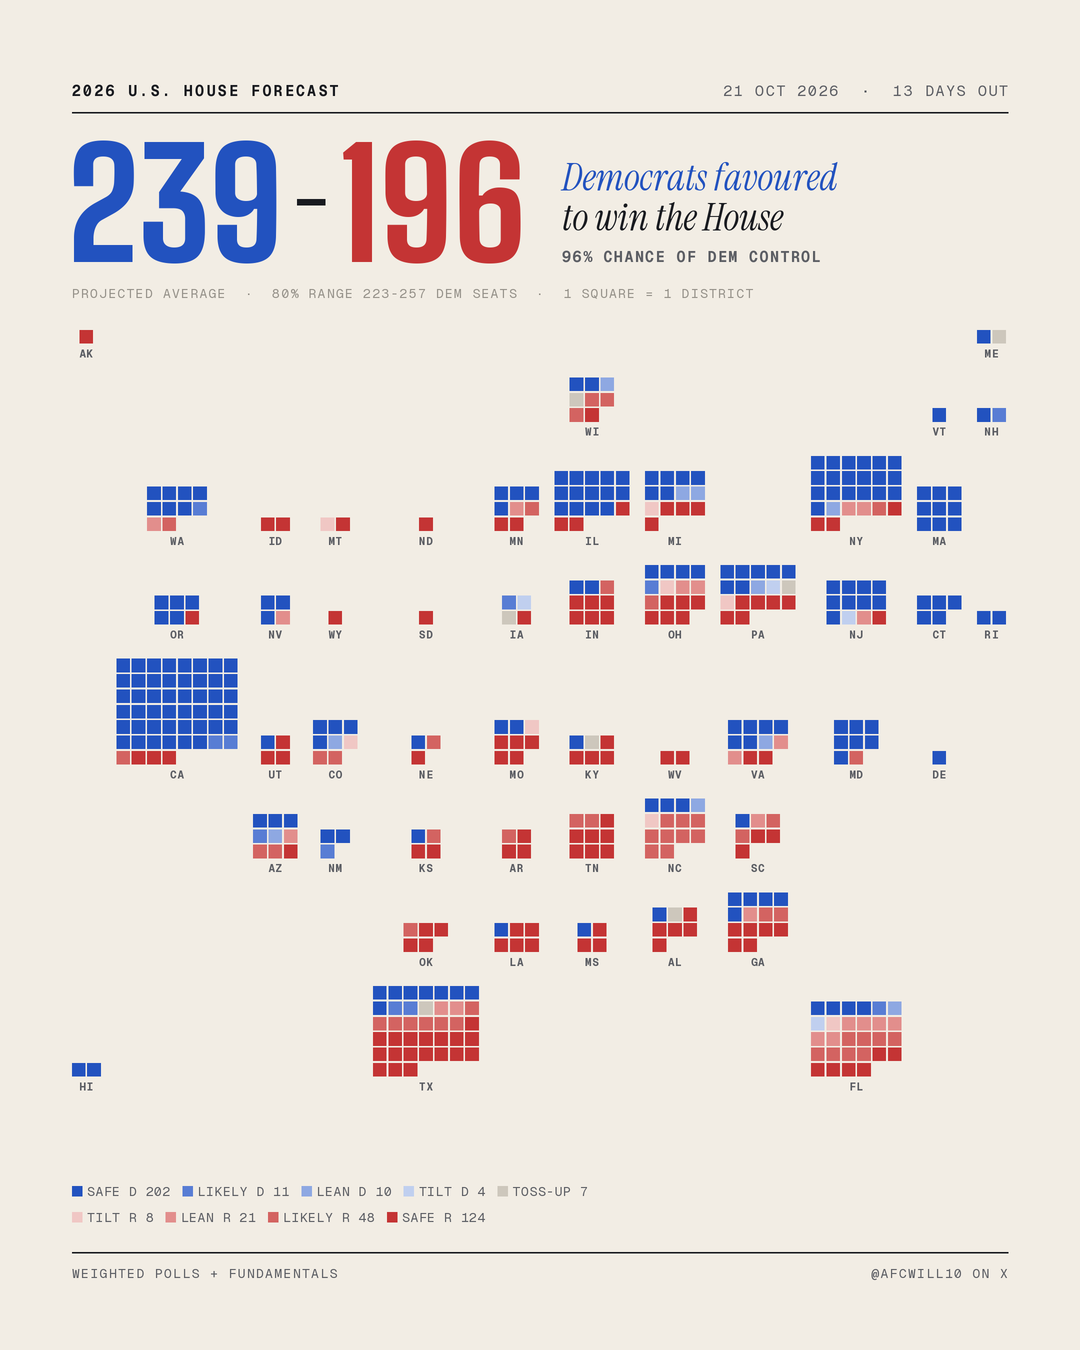
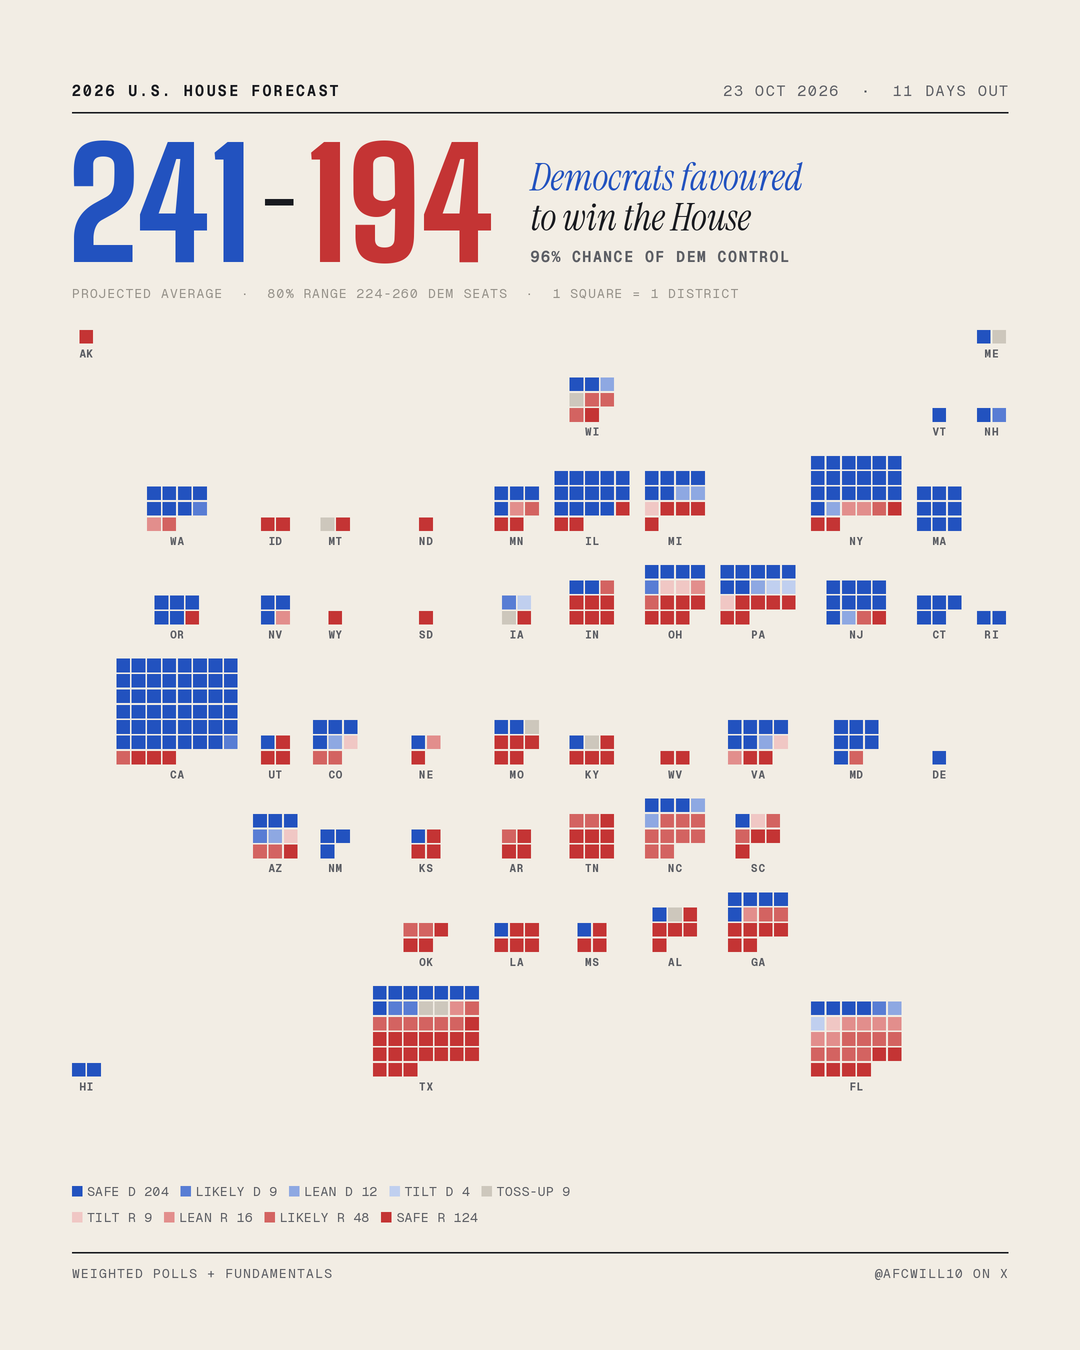
Graphics for the 23 Oct forecast; House ledger rows shrink to fit
22 close House races overflowed into the footer at 28px rows.

Claude-Session: https://claude.ai/code/session_019JSxA7aqHuyNv185JZNLWE

diff --git a/graphics/make_house.py b/graphics/make_house.py
@@ -148,7 +148,8 @@ def main():
     close = sorted((r for r in rows if r["rating"] in ("Tilt D", "Toss-up", "Tilt R")), key=lambda r: -r["m"])
     col_code, col_name, axis, half = L, L + 112, 655, 105
     scale = half / 3.0
-    row_h, y0 = 28, head_y + 38
+    # up to 20 rows of 28px fit with the lean lists; more close races -> tighter rows
+    row_h, y0 = min(28, 572 // max(len(close), 1)), head_y + 38
     for i, r in enumerate(close):
         y = y0 + i * row_h
         mid = y + row_h / 2
